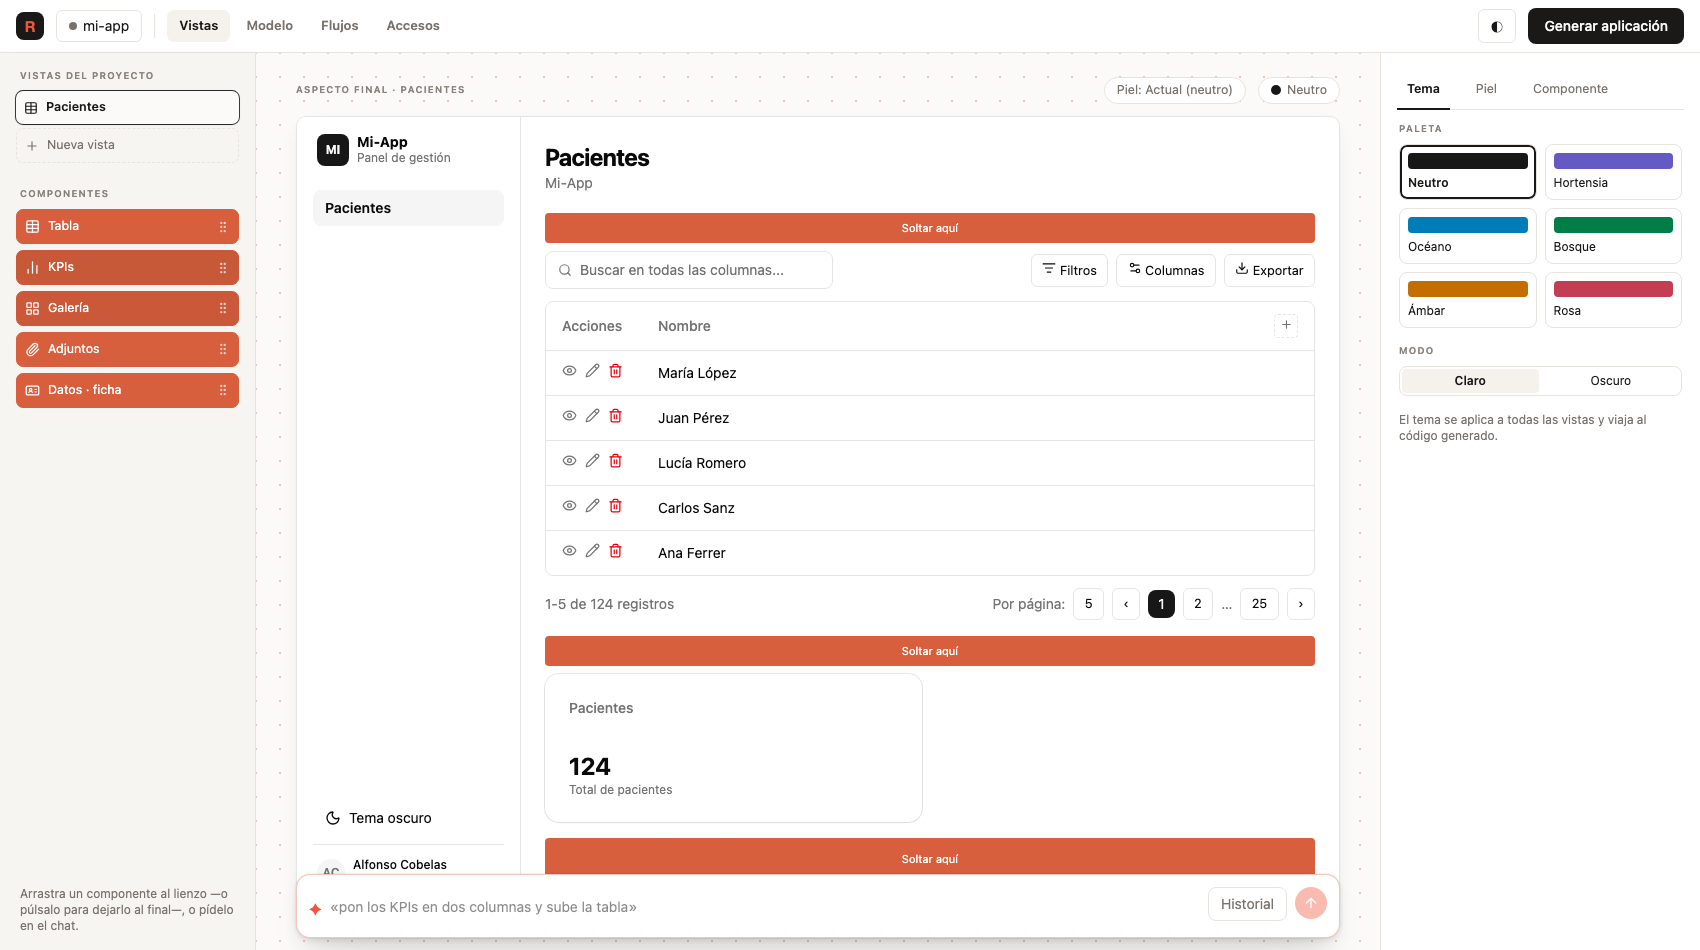
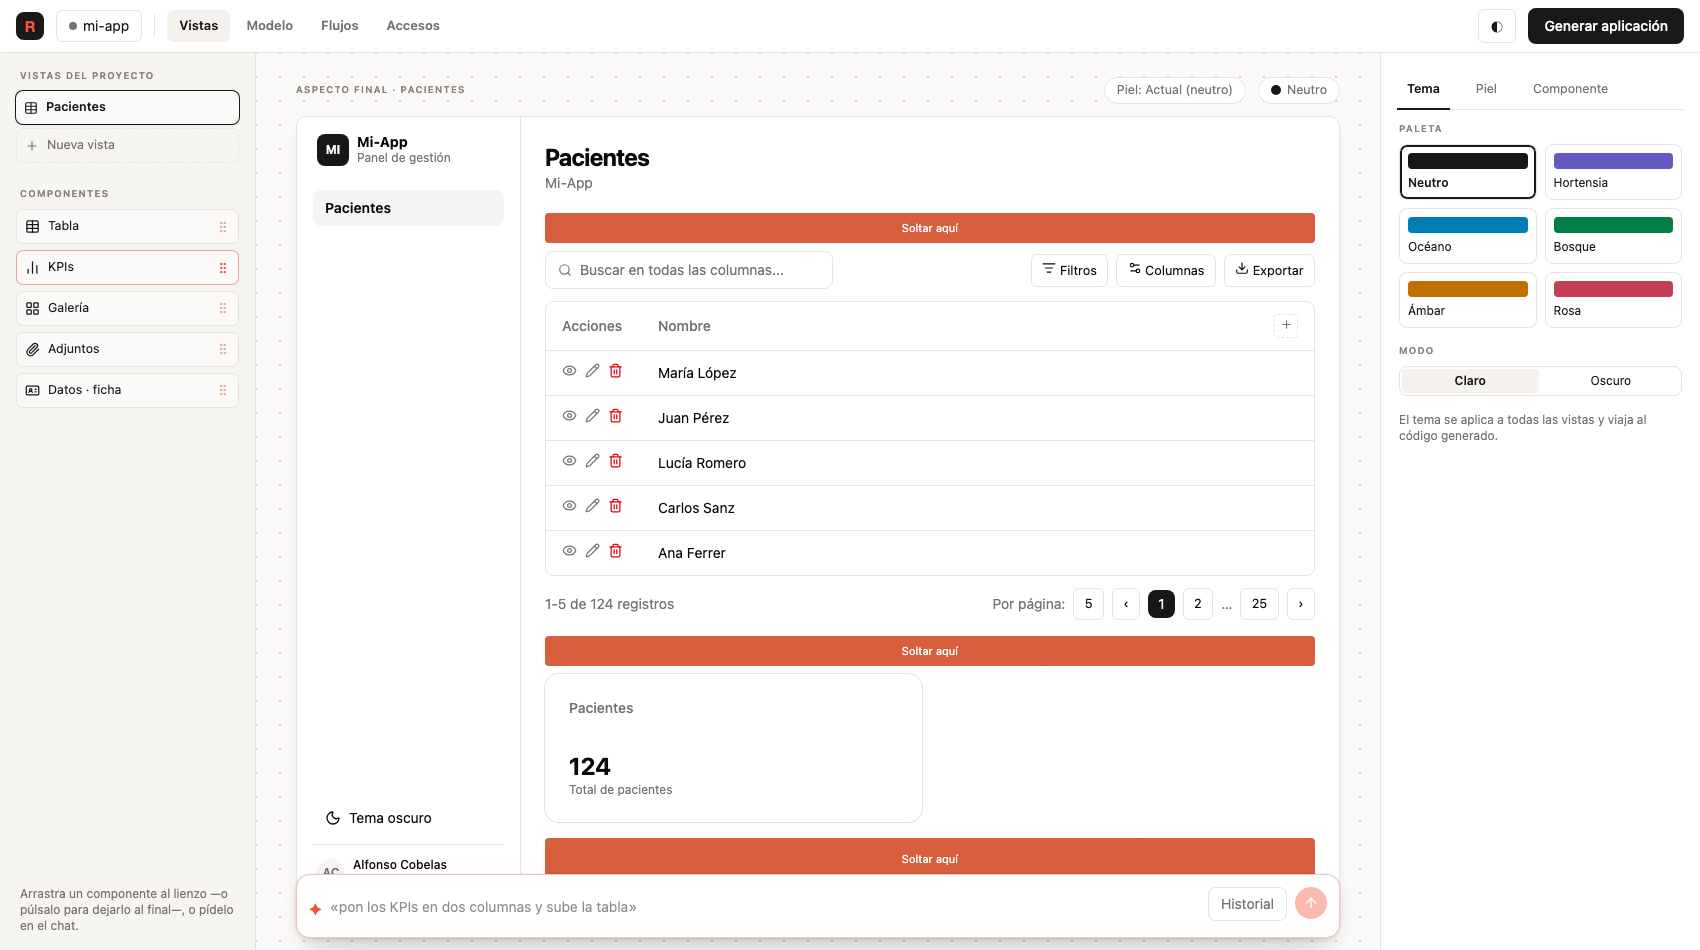
style(studio): the palette components go back to a light card on the grey rail
Solid orange made the rail shout over the canvas. The card is light again and
the orange stays where it belongs: the grip, the border on hover and the piece
in the air. The smoke also waits for the canvas to repaint before reading it —
the store changes on the click, the DOM one tick later.

Changed region(s): [[0.0, 0.2137, 0.1559, 0.4274]]

diff --git a/apps/studio/tools/smoke-drag.ts b/apps/studio/tools/smoke-drag.ts
@@ -27,6 +27,19 @@ async function blocks(page: Page): Promise<string[]> {
   return ids.filter(id => /^block-(table|kpis|cards|fields|attachments|text)-\d+$/.test(id)).map(id => id.split('-')[1])
 }
 
+/**
+ * Los bloques cuando el lienzo se ha repintado: el store cambia en el mismo tick del
+ * clic, pero el DOM llega un tick después, y sin esperar la lectura pilla la vista vieja.
+ */
+async function blocksWhenPainted(page: Page, expected: string): Promise<string[]> {
+  for (let attempt = 0; attempt < 20; attempt++) {
+    const painted = await blocks(page)
+    if (painted.join() === expected) return painted
+    await page.waitForTimeout(100)
+  }
+  return blocks(page)
+}
+
 async function main(): Promise<void> {
   const browser = await chromium.launch()
   const page = await browser.newPage({ viewport: { width: 1700, height: 950 } })
@@ -60,13 +73,13 @@ async function main(): Promise<void> {
 
   await check(
     'el clic deja el bloque al final, con la entidad de la vista',
-    async () => (await blocks(page)).join() === 'table,kpis'
+    async () => (await blocksWhenPainted(page, 'table,kpis')).join() === 'table,kpis'
   )
 
   await dragBlockOnto(page, 'block-tool-cards', 'drop-zone-0', 'e2e-35-drag-huecos.png')
   await check(
     'soltado en el primer hueco, el bloque cae el primero',
-    async () => (await blocks(page)).join() === 'cards,table,kpis'
+    async () => (await blocksWhenPainted(page, 'cards,table,kpis')).join() === 'cards,table,kpis'
   )
 
   await check('soltar apaga los huecos', async () => (await page.locator('[data-testid^="drop-zone-"]').count()) === 0)
@@ -80,7 +93,10 @@ async function main(): Promise<void> {
   await page.getByTestId('new-page-ok').click()
 
   await dragBlockOnto(page, 'block-tool-table', 'drop-zone-0', 'e2e-36-drag-vista-vacia.png')
-  await check('la vista vacía admite el primer bloque', async () => (await blocks(page)).join() === 'table')
+  await check(
+    'la vista vacía admite el primer bloque',
+    async () => (await blocksWhenPainted(page, 'table')).join() === 'table'
+  )
 
   if (errors.length) console.log('errores de página:', errors)
   await browser.close()

diff --git a/apps/studio/libs/frontend/src/domains/studio/design/views-sidebar.component.ts b/apps/studio/libs/frontend/src/domains/studio/design/views-sidebar.component.ts
@@ -212,21 +212,24 @@ const BLOCK_TOOLS: BlockTool[] = [
        de arrastrar se reconoce por el color de punta a punta. */
     .block-tool {
       --studio-drag: #d75f3d;
-      border-color: var(--studio-drag);
-      background-color: var(--studio-drag);
-      color: #fff;
+      /* Ficha clara sobre el raíl gris: el componente se despega del panel sin gritar
+         más que el lienzo. En tema oscuro sigue al --background del estudio. */
+      background-color: var(--background);
     }
     .block-tool .grip {
-      color: color-mix(in oklab, #fff 70%, transparent);
+      color: color-mix(in oklab, var(--studio-drag) 55%, transparent);
     }
     .block-tool:not(:disabled):hover {
-      background-color: color-mix(in oklab, var(--studio-drag) 88%, black);
-      border-color: color-mix(in oklab, var(--studio-drag) 88%, black);
+      border-color: color-mix(in oklab, var(--studio-drag) 55%, transparent);
     }
-    /* El que está en el aire se hunde un punto: se ve cuál de los cinco va en el gesto. */
+    .block-tool:not(:disabled):hover .grip {
+      color: var(--studio-drag);
+    }
+    /* El que está en el aire se queda marcado en el raíl mientras dura el gesto. */
     .block-tool.dragging {
-      background-color: color-mix(in oklab, var(--studio-drag) 75%, black);
-      border-color: color-mix(in oklab, var(--studio-drag) 75%, black);
+      border-color: var(--studio-drag);
+      background-color: color-mix(in oklab, var(--studio-drag) 8%, var(--background));
+      color: var(--studio-drag);
     }
   `
 })
